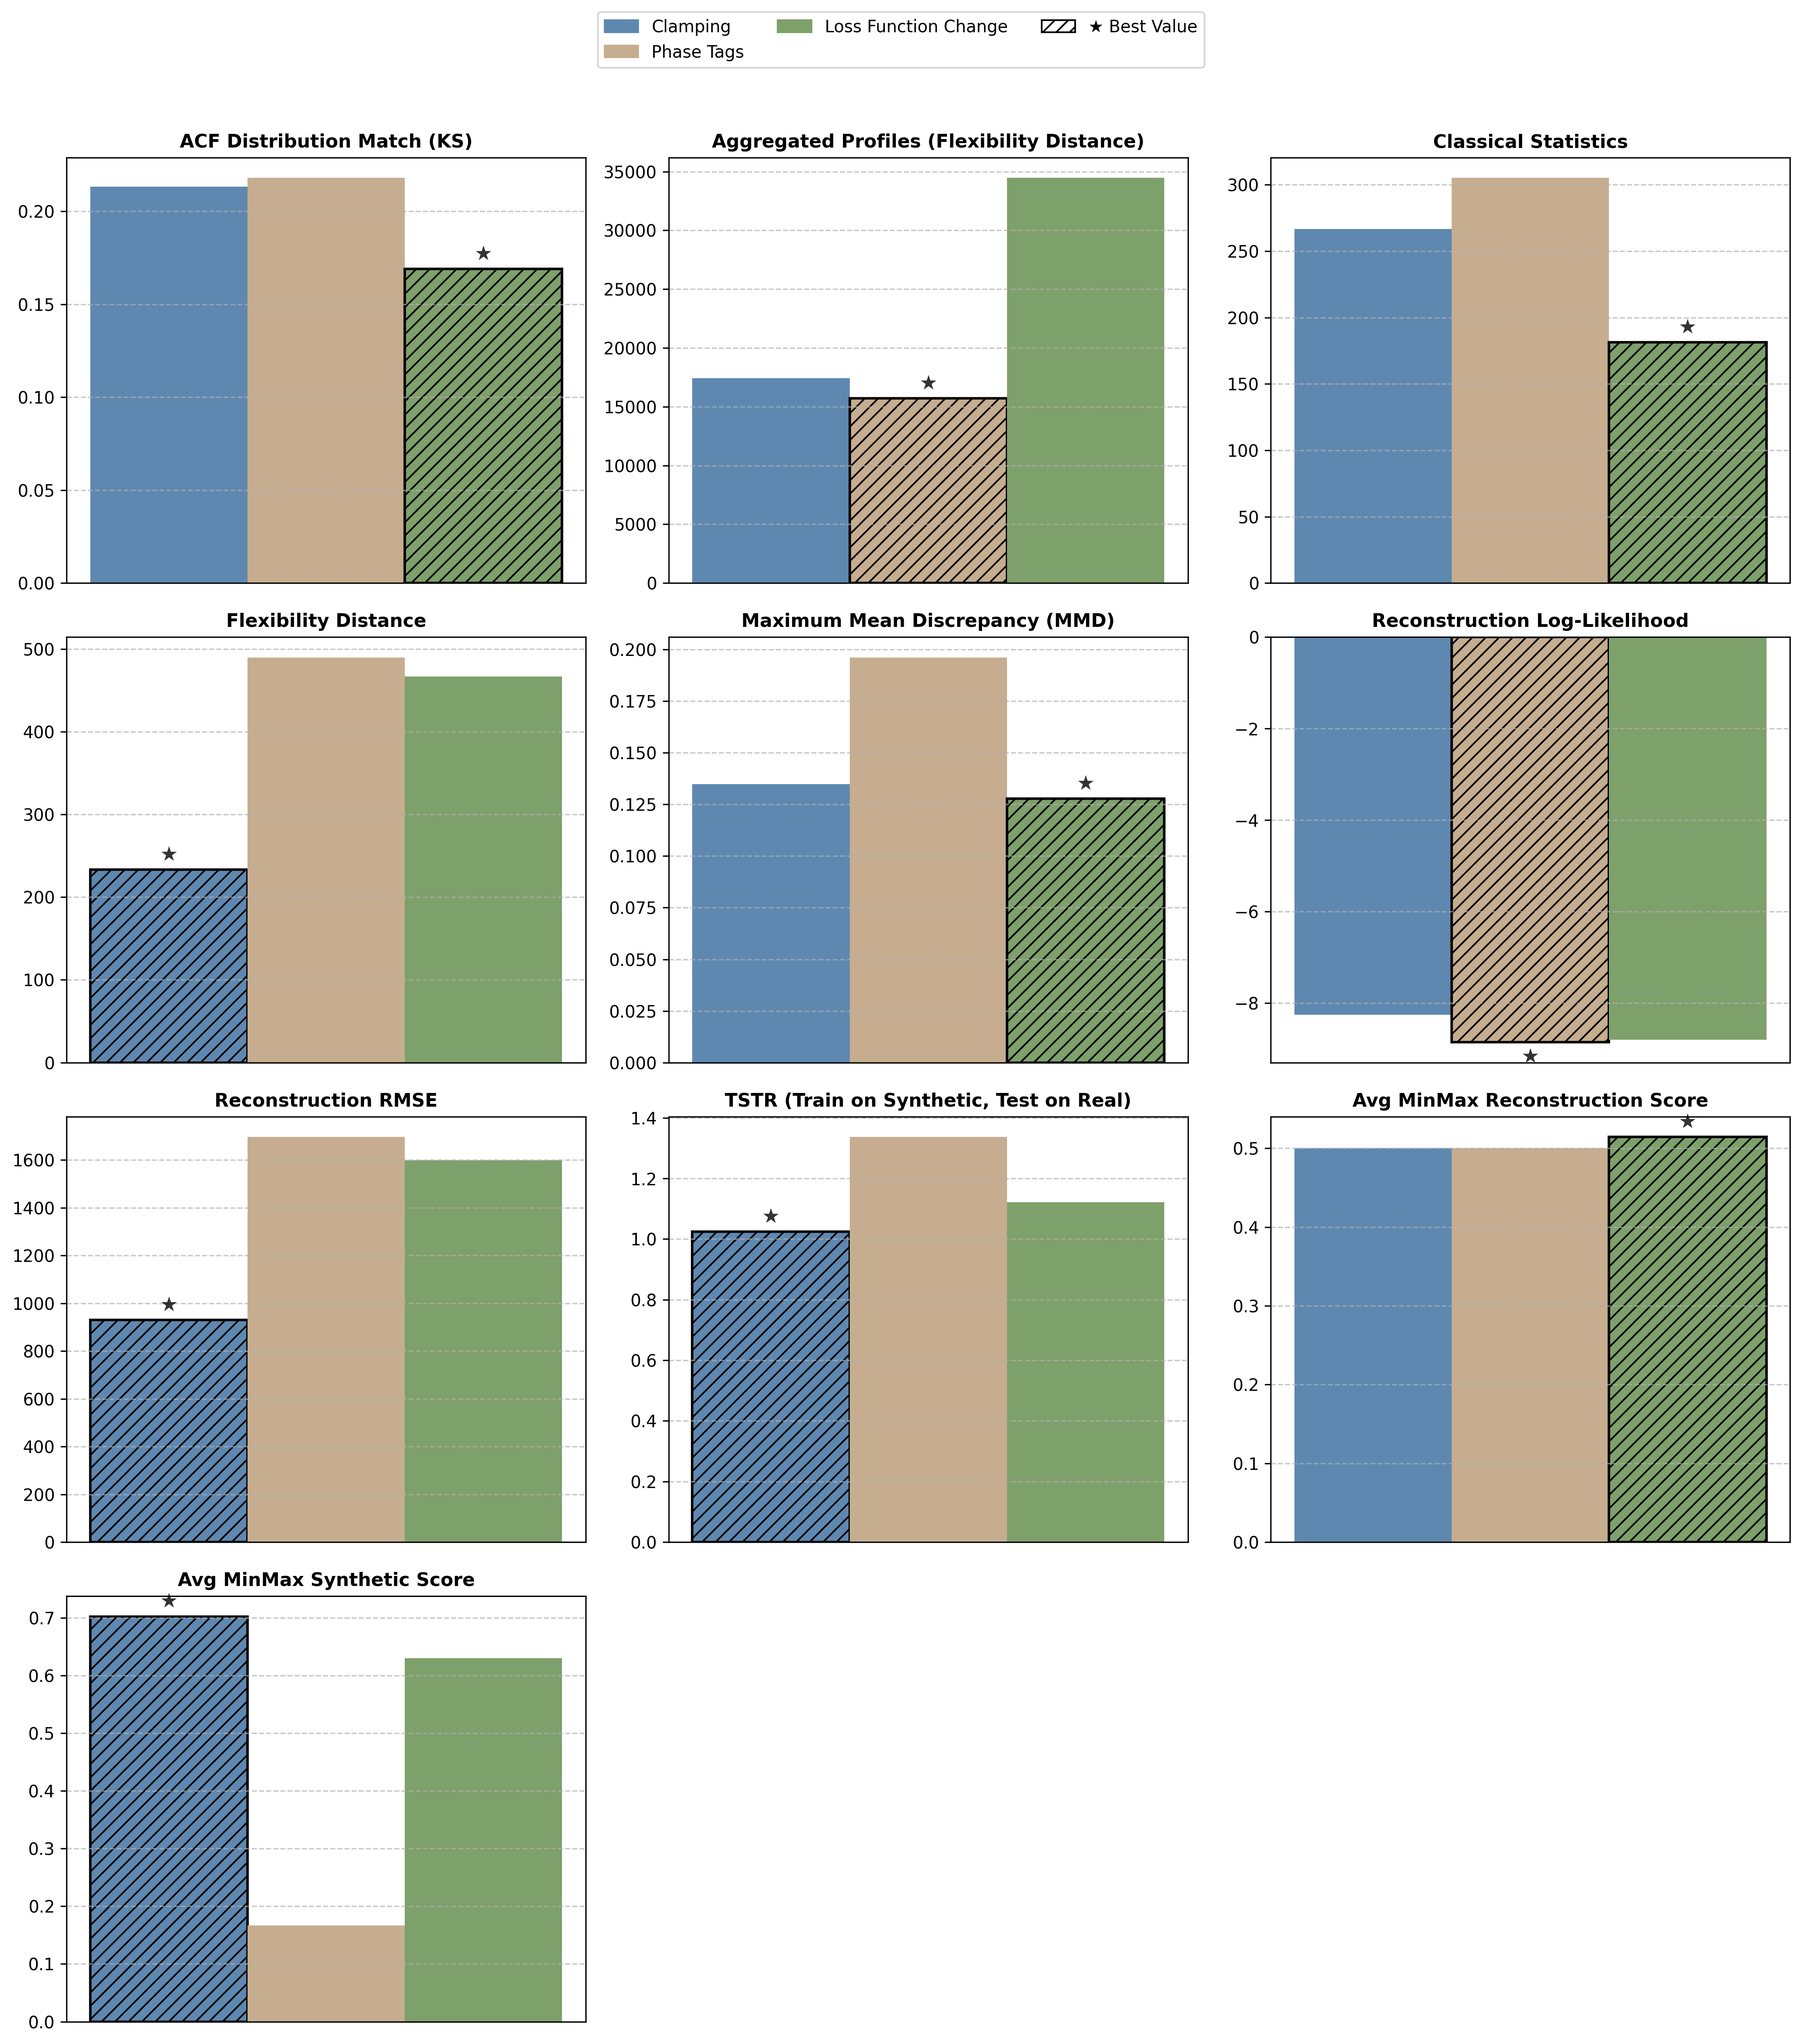
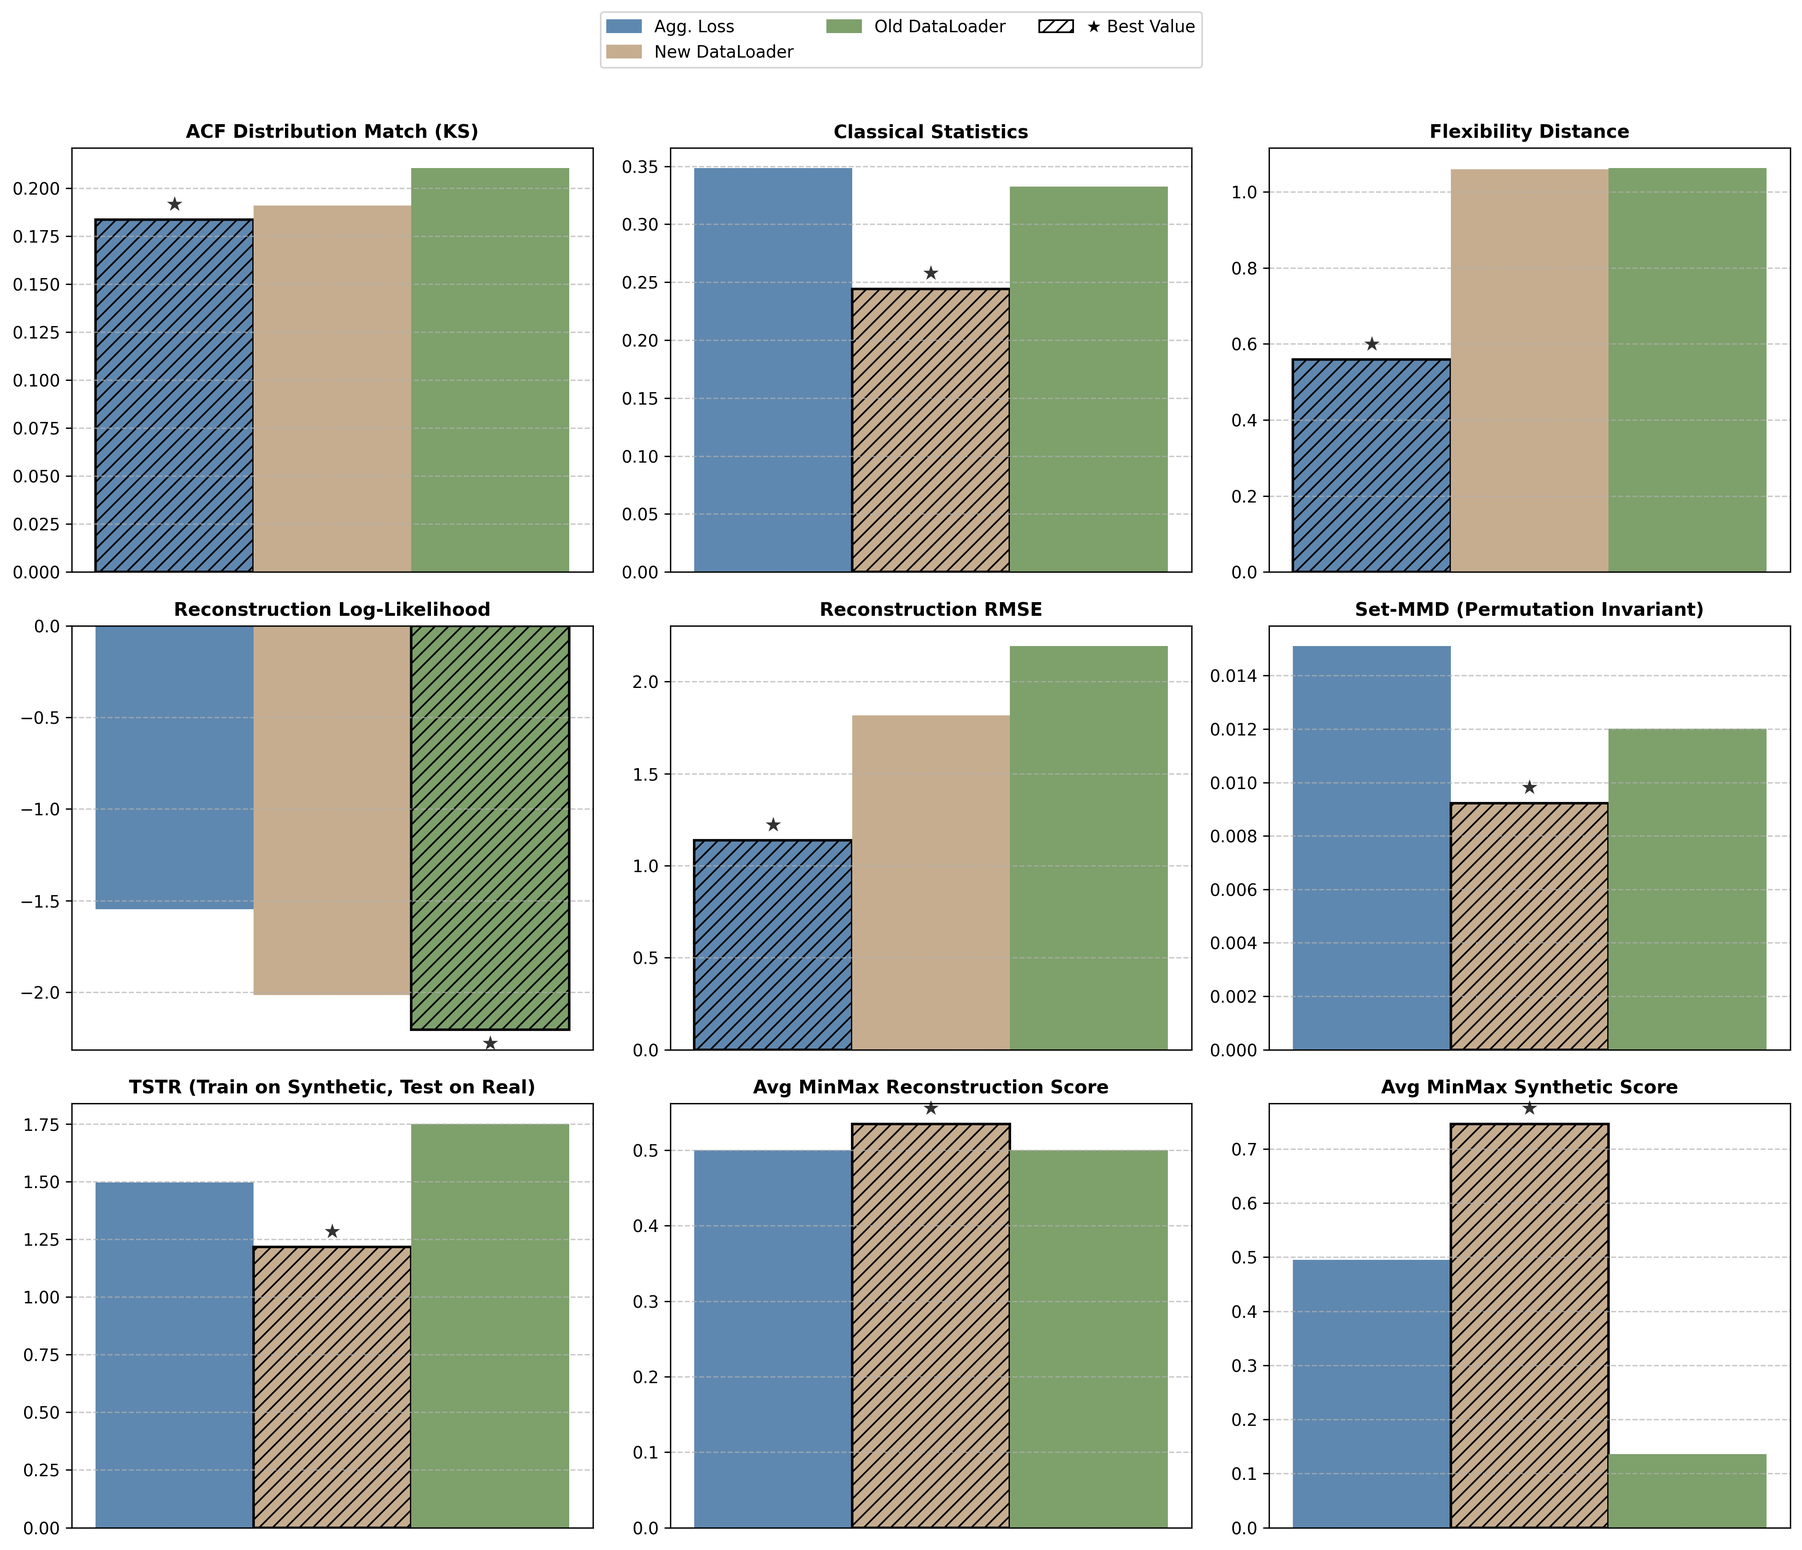
FIxes. log_prob in vamp now batched for memory. loss function test for set with aggregated phases as additional element. vampprior initialized with true data as pseudoinputs as test and prevention of collapse at start of training.

diff --git a/src/train.py b/src/train.py
@@ -159,6 +159,66 @@ def _build_phased_eval_loader(eval_stream, batch_size: int, num_workers: int, ev
     )
 
 
+def _init_vamp_prior_from_batch(model, batch, device, noise_scale: float = 0.01) -> bool:
+    if not isinstance(getattr(model, "prior", None), VampPrior):
+        return False
+
+    if batch is None:
+        return False
+
+    model.eval()
+    with torch.no_grad():
+        if isinstance(model, SetGuideVAE):
+            x, meter_id, timestamps = model._unpack_batch(batch)
+            x_phase_first = model._to_phase_first(x).float()
+            x_for_conditions = model._build_condition_input(x_phase_first)
+            c = model.conditioner.get_conditions(x_for_conditions, meter_id=meter_id, timestamps=timestamps)
+            c = model.move_to_device(c, device=device)
+            x_phase_first = model.move_to_device(x_phase_first, device=device)
+            set_repr = model._set_encode(x_phase_first)
+            enc_in = torch.cat([set_repr, c], dim=-1)
+        elif isinstance(model, CVAE):
+            if len(batch) == 4:
+                x, c, meter_id, timestamps = batch
+                if c.numel() == 0 or c.shape[-1] != model.condition_dim:
+                    c = model.conditioner.get_conditions(x, meter_id=meter_id, timestamps=timestamps)
+            elif len(batch) == 3:
+                x, meter_id, timestamps = batch
+                c = model.conditioner.get_conditions(x, meter_id=meter_id, timestamps=timestamps)
+            elif len(batch) == 2:
+                x, meter_id = batch
+                c = model.conditioner.get_conditions(x, meter_id=meter_id, timestamps=None)
+            else:
+                x = batch[0] if isinstance(batch, (list, tuple)) else batch
+                c = model.conditioner.get_conditions(x)
+
+            c = model.move_to_device(c, device=device)
+            x_flat = model._prep_inputs(x).float()
+            x_flat = model.move_to_device(x_flat, device=device)
+            enc_in = torch.cat([x_flat, c], dim=-1)
+        else:
+            x = batch[0] if isinstance(batch, (list, tuple)) else batch
+            x_flat = x.reshape(x.shape[0], -1) if x.dim() == 3 else x
+            enc_in = model.move_to_device(x_flat.float(), device=device)
+
+        if enc_in.numel() == 0:
+            return False
+
+        K = int(model.prior.num_components)
+        n = int(enc_in.shape[0])
+        if n >= K:
+            idx = torch.randperm(n, device=enc_in.device)[:K]
+        else:
+            idx = torch.randint(0, n, (K,), device=enc_in.device)
+        init = enc_in[idx]
+        if noise_scale and noise_scale > 0:
+            init = init + (float(noise_scale) * torch.randn_like(init))
+
+        model.prior.pseudo_inputs.data.copy_(init)
+
+    return True
+
+
 def _run_evaluation_and_visualization(model, test_loader, normalizer, conditioner, writer, device, log_path, config, phased_mode: bool):
     """Route evaluation by mode and run shared visualizations."""
     if phased_mode:
@@ -196,6 +256,8 @@ def train(config):
     print("Using device: ", device)
     # Up the recursion limit for deep models
     sys.setrecursionlimit(5000) # default seems to be 999
+
+    vamp_initialized = False
 
     data_mode = str(getattr(config.data, "mode", "csv")).lower()
     phased_mode = data_mode in {"phased", "phase", "parquet", "phased_parquet"}
@@ -324,6 +386,7 @@ def train(config):
         raise ValueError(f"Unknown model type '{config.model.type}' specified in config.")
 
     model_tag = model.get_tag()
+    _save_training_config_snapshot(config=config, log_path=os.path.join(config.logging.log_dir, model_tag))
 
     # === Load Data === 
     window = WindowSpec(input_len=config.window.input_len, stride=config.window.stride)
@@ -438,6 +501,20 @@ def train(config):
         model = model.to(device)
         model.prior.to(device)
 
+        if not vamp_initialized and isinstance(model.prior, VampPrior):
+            init_from_data = bool(getattr(config.model.prior, "init_from_data", True))
+            if init_from_data:
+                init_loader, _ = phased_replay.get_epoch_loaders(
+                    steps_per_epoch=1,
+                    eval_batches=0,
+                    refresh_eval=False,
+                )
+                init_batch = next(iter(init_loader)) if init_loader is not None else None
+                noise_scale = float(getattr(config.model.prior, "init_noise_scale", 0.01))
+                if _init_vamp_prior_from_batch(model, init_batch, device=device, noise_scale=noise_scale):
+                    vamp_initialized = True
+                    print("Initialized VampPrior pseudo-inputs from data batch.")
+
         print(f"Starting phased training for {config.training.num_epochs} epoch(s), {steps_per_epoch} step(s)/epoch")
         for epoch in range(config.training.num_epochs):
             should_eval_epoch = eval_batches > 0 and ((epoch + 1) % max(1, eval_every_n_epochs) == 0)
@@ -531,7 +608,6 @@ def train(config):
         log_path = os.path.join(config.logging.log_dir, model_tag)
         os.makedirs(log_path, exist_ok=True)
         model.save_model(save_path=log_path, model_name=f"{model_tag}_final", device=device, normalizer=normalizer)
-        _save_training_config_snapshot(config=config, log_path=log_path)
 
         # Use cached eval loader (kept separate from training cache)
         combined_test_loader = phased_replay.get_eval_loader()
@@ -648,6 +724,15 @@ def train(config):
 
         train_loader = dm.train_dataloader()
         val_loader = dm.val_dataloader()
+
+        if not vamp_initialized and isinstance(model.prior, VampPrior):
+            init_from_data = bool(getattr(config.model.prior, "init_from_data", True))
+            if init_from_data:
+                init_batch = next(iter(train_loader), None)
+                noise_scale = float(getattr(config.model.prior, "init_noise_scale", 0.01))
+                if _init_vamp_prior_from_batch(model, init_batch, device=device, noise_scale=noise_scale):
+                    vamp_initialized = True
+                    print("Initialized VampPrior pseudo-inputs from data batch.")
 
         model_tag, writer = model.fit(
             trainloader = train_loader,

diff --git a/src/model/priors.py b/src/model/priors.py
@@ -227,25 +227,63 @@ class VampPrior(BasePrior):
         K = self.num_components
         B, D = z.shape
 
-        # Expand z to [B*K, D] — repeat each z for every component
-        z_expanded = z.unsqueeze(1).expand(B, K, D).reshape(B * K, D)
+        # Compute mixture log-prob in chunks to cap memory for large B*K.
+        max_pairs = int(getattr(self, "max_logprob_pairs", 2048))
+        max_pairs = max(1, max_pairs)
 
-        # Expand component params to [B*K, ...]
-        params_expanded = {}
-        for key, val in component_params.items():
-            rest = val.shape[1:]
-            params_expanded[key] = (
-                val.unsqueeze(0)               # [1, K, *rest]
-                  .expand(B, *val.shape)        # [B, K, *rest]
-                  .reshape(B * K, *rest)         # [B*K, *rest]
-            )
+        batch_chunk_size = int(getattr(self, "log_prob_batch_chunk", 0))
+        if batch_chunk_size <= 0:
+            batch_chunk_size = min(B, max_pairs)
+        batch_chunk_size = max(1, batch_chunk_size)
 
-        # log q(z | u_k) for every (batch, component) pair: [B*K]
-        log_probs = self.encoder.loglikelihood(z_expanded, params_expanded)
-        log_probs = log_probs.reshape(B, K)  # [B, K]
+        component_chunk_size = int(getattr(self, "log_prob_component_chunk", 0))
+        if component_chunk_size <= 0:
+            component_chunk_size = max(1, min(K, max_pairs // batch_chunk_size))
+        component_chunk_size = max(1, min(K, component_chunk_size))
 
+        logsumexp_batches = []
+        for b_start in range(0, B, batch_chunk_size):
+            b_end = min(B, b_start + batch_chunk_size)
+            z_chunk = z[b_start:b_end]
+            Bc = z_chunk.shape[0]
+
+            logsumexp_chunk = None
+            for k_start in range(0, K, component_chunk_size):
+                k_end = min(K, k_start + component_chunk_size)
+                params_chunk = {key: val[k_start:k_end] for key, val in component_params.items()}
+
+                # Expand z to [Bc*Kc, D] — repeat each z for every component in the chunk.
+                Kc = k_end - k_start
+                z_expanded = z_chunk.unsqueeze(1).expand(Bc, Kc, D).reshape(Bc * Kc, D)
+
+                # Expand component params to [Bc*Kc, ...]
+                params_expanded = {}
+                for key, val in params_chunk.items():
+                    rest = val.shape[1:]
+                    params_expanded[key] = (
+                        val.unsqueeze(0)          # [1, Kc, *rest]
+                          .expand(Bc, *val.shape)  # [Bc, Kc, *rest]
+                          .reshape(Bc * Kc, *rest)  # [Bc*Kc, *rest]
+                    )
+
+                # log q(z | u_k) for every (batch, component) pair in this chunk: [Bc*Kc]
+                log_probs = self.encoder.loglikelihood(z_expanded, params_expanded)
+                log_probs = log_probs.reshape(Bc, Kc)  # [Bc, Kc]
+                chunk_logsumexp = torch.logsumexp(log_probs, dim=1)
+
+                if logsumexp_chunk is None:
+                    logsumexp_chunk = chunk_logsumexp
+                else:
+                    logsumexp_chunk = torch.logsumexp(
+                        torch.stack([logsumexp_chunk, chunk_logsumexp], dim=0),
+                        dim=0,
+                    )
+
+            logsumexp_batches.append(logsumexp_chunk)
+
+        logsumexp_all = torch.cat(logsumexp_batches, dim=0)
         # Mixture: log (1/K) sum_k exp(log_prob_k) = logsumexp - log(K)
-        return torch.logsumexp(log_probs, dim=1) - np.log(K)
+        return logsumexp_all - np.log(K)
     
     def forward(self, batch_size):
         """Return mean parameters expanded to batch_size for compatibility."""

diff --git a/src/model/set.py b/src/model/set.py
@@ -252,6 +252,8 @@ class SetGuideVAE(CVAE):
         Permutation-Invariant ELBO Loss (Memory Optimized).
         Finds the best permutation without tracking gradients, then calculates 
         the differentiable loss exactly once.
+
+        Aggregation consistency
         """
         # 1. Get KL Divergence
         kl_divergences = self.encoder.kl_divergence(posterior_params, prior=self.prior) # [B]
@@ -273,7 +275,7 @@ class SetGuideVAE(CVAE):
             [2, 0, 1], [2, 1, 0]
         ]
 
-        # --- STEP 1: Find the best permutation WITHOUT saving gradients ---
+        # --- STEP 1: Find the best permutation ---
         with torch.no_grad():
             ll_scores = []
             for perm in permutations:
@@ -294,8 +296,26 @@ class SetGuideVAE(CVAE):
         # --- STEP 3: Do the heavy math exactly ONCE with gradients ON ---
         best_ll = self.decoder.loglikelihood(x_optimal, recon_params_squeezed)
 
-        # 4. Calculate Final ELBO
-        elbo = best_ll - (beta * kl_divergences)
+        if False:
+            # --- STEP 4: Aggregate Total Phases --- (THIS IS A TEST, WILL MAYBE BE USED IN FUTURE)
+            # Get the predicted means and reshape to [B, F, L]
+            mu_predicted = recon_params_squeezed["mu"].reshape(B, F, L)
+            
+            # Sum across the phases (F dimension) -> [B, L]
+            mu_sum = mu_predicted.sum(dim=1)
+            x_sum = x_phases.sum(dim=1)
+            
+            # Calculate MSE of the Aggregated Total
+            # Summing over L (24 hours) to get the error per sample [B]
+            agg_mse = torch.nn.functional.mse_loss(mu_sum, x_sum, reduction='none').sum(dim=-1)
+
+            # --- STEP 3: Final Combined ELBO ---
+            # Maximize LL, Minimize KL, Minimize Agg_MSE
+            agg_weight = 0.25 # The total counts slightly less than an individual phase to encourage learning both individual and aggregate patterns
+            elbo = best_ll - (beta * kl_divergences) - (agg_weight * agg_mse)
+        else:
+            elbo = best_ll - (beta * kl_divergences)
+
         loss = -elbo.mean()
 
         return {

diff --git a/src/evaluation/compare_phased_eval.py b/src/evaluation/compare_phased_eval.py
@@ -290,14 +290,14 @@ class PhasedModelComparator:
 
 if __name__ == "__main__":
     parser = argparse.ArgumentParser(description="Compare evaluations between different phased models.")
-    parser.add_argument("--eval_dirs", nargs='+', required=True, help="List of paths to directories containing phased eval results.")
-    parser.add_argument("--names", nargs='+', required=True, help="List of model names corresponding to the eval dirs.")
+    parser.add_argument("--eval_dirs", nargs='+', required=False, help="List of paths to directories containing phased eval results.")
+    parser.add_argument("--names", nargs='+', required=False, help="List of model names corresponding to the eval dirs.")
     parser.add_argument("--output_dir", type=str, default="evaluation_comparison_phased", help="Directory to save the comparison plots and table.")
     
     args = parser.parse_args()
     
-    args.eval_dirs = ["models/SetGuideVAE_DictionaryCoder_20260320_141714_clamping", "models/SetGuideVAE_DictionaryCoder_20260320_165707_phase_tags", "models/SetGuideVAE_DictionaryCoder_20260321_103830_lossfunction_change"]
-    args.names = ["Clamping", "Phase Tags", "Loss Function Change"]
+    args.eval_dirs = ["models\SetGuideVAE_DictionaryCoder_20260331_090912", "models\SetGuideVAE_DictionaryCoder_20260330_230804", "models\SetGuideVAE_DictionaryCoder_20260330_164117"]
+    args.names = ["Agg. Loss", "New DataLoader", "Old DataLoader"]
 
     if len(args.eval_dirs) != len(args.names):
         print("Error: The number of evaluation directories must match the number of model names.")
